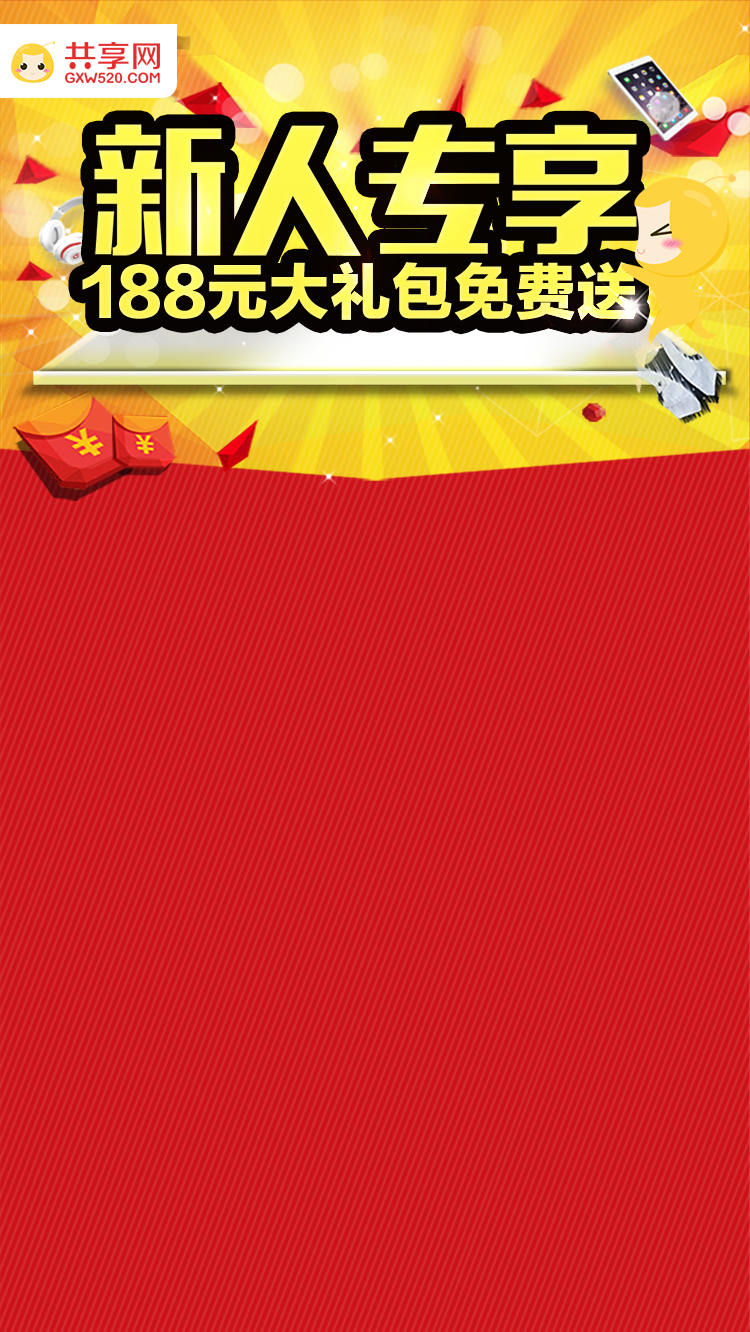
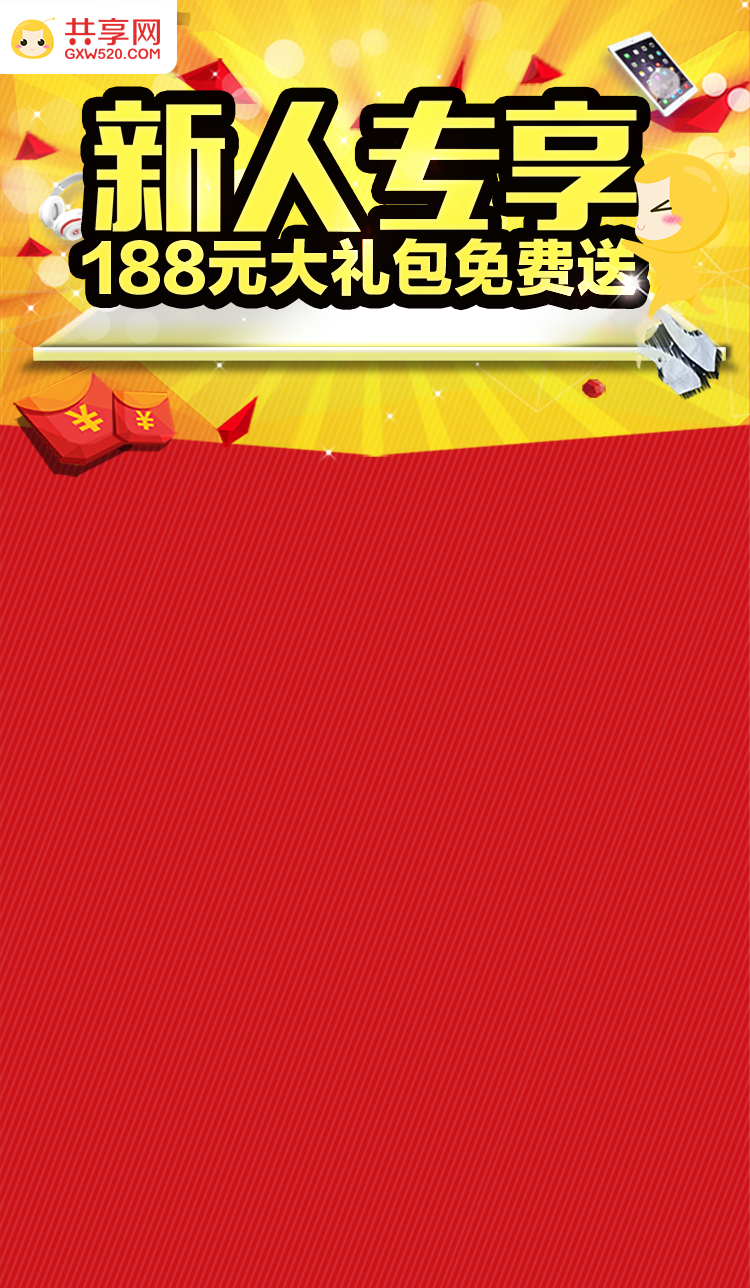
原生登陆，h5弹窗

Changed region(s): [[0.0, 0.0, 1.0, 0.4348], [0.0, 0.6522, 1.0, 0.8385]]

diff --git a/src/pages/my-prize/my-prize.vue b/src/pages/my-prize/my-prize.vue
@@ -27,7 +27,7 @@
       <p class="p-title">
         我的奖品
       </p>
-      <a class="sort-more" @touchstart="toLottery">去抽奖></a>
+      <a class="sort-more" id="sort_more2"  @touchstart="toLottery">去抽奖></a>
       <my-real-prize :prize="prize"></my-real-prize>
     </div>
     <my-prize-five :coupon="coupon,timeout" @a_app="warm_app"></my-prize-five>
@@ -38,6 +38,20 @@
       <p style="text-align: center">请下载共享网app！</p>
       <div class="btn_bot">
         <div class="btn_14" style="border: none" @touchstart="alert_app=false">确定</div>
+      </div>
+    </div>
+       <transition name="fade">
+    <div class="Cover_all"  v-if="alert_5">
+       <div class="Cover"></div>
+       <div class="img"  :style="{background: 'url(' +alert_520+ ') no-repeat',backgroundSize:'100% 100%'}">
+         <div class="close"  @touchstart="alert_5=false"></div>
+       </div>
+    </div>
+       </transition>
+    <div class="Cover_all" v-if="alert_h">
+      <div class="Cover" ></div>
+      <div class="img"  :style="{background: 'url(' +alert_hec+ ') no-repeat',backgroundSize:'100% 100%'}">
+        <div class="close" @touchstart="alert_h=false"></div>
       </div>
     </div>
   </div>
@@ -54,7 +68,13 @@
     name: 'myPrize',
     data(){
       return {
+        alert_5:false,
+        alert_5_1:false,
+        alert_h_1:false,
+        alert_h:false,
         isApp:false,
+        alert_520:require("../../assets/images/520_alert.png"),
+        alert_hec:require("../../assets/images/hec_alert.png"),
         is_confirm:false,
         showRules: false,
         id_num:"",
@@ -65,7 +85,7 @@
           "word1_num": "0",
           "word2_num": "0",
           "word3_num": "0",
-          "word4_num": "0"
+          "word4_num": "0",
         },
         shareUser: [
           {
@@ -79,6 +99,7 @@
       }
     },
     created(){
+
       let my_href=window.location.href
       let url_index=my_href.lastIndexOf("&")
               if(url_index>-1){
@@ -87,7 +108,8 @@
                 let id_num=user_id.substring(id_num_index+1)
                 this.id_num=id_num
               }
-      console.log(this.id_num)
+     /* console.log(this.id_num)*/
+     console.log( this.wordNum)
       let nowThis = this
       axios.get('http://192.168.1.25/gxw_mobile3/Shop/Loves/homeIndex?query={"user_id":'+this.id_num+'}')
      /* axios.get('/api/prizes')*/
@@ -95,7 +117,23 @@
 
              if(response.data.result==false){
              }else {
-               nowThis.wordNum = response.data.list.wordNum;
+               nowThis.wordNum.word1_num=response.data.list.wordNum.word1_num
+               nowThis.wordNum.word2_num=response.data.list.wordNum.word2_num
+               nowThis.wordNum.word3_num=response.data.list.wordNum.word3_num
+               nowThis.wordNum.word4_num=response.data.list.wordNum.word4_num
+                    if(response.data.list.wordNum.word1_new==1){
+                      nowThis.alert_5_1=true
+                    }else {
+                      nowThis.alert_5_1=false
+                    }
+               if(response.data.list.wordNum.word2_new==1){
+                 nowThis.alert_h_1=true
+               }else {
+                 nowThis.alert_h_1=false
+               }
+
+
+
              }
 
           if(response.data.result==false){
@@ -147,6 +185,8 @@
         })
     },
     mounted(){
+      this.alert_5=this.alert_5_1
+      this.alert_h=this.alert_h_1
       const nowThis = this
       const obj = nowThis.$el
       if (nowThis.$route.params.top)
@@ -192,7 +232,7 @@
         if(window.O2OHome){
           O2OHome.gotoTabIndex ('0')
         }else {
-        window.location.href="cn/active_homepage.html "//去抽奖要跳转的绝对路径
+      /*  window.location.href="cn/active_homepage.html "//去抽奖要跳转的绝对路径*/
         }
       }
     }

diff --git a/src/pages/new-people/new-people.vue b/src/pages/new-people/new-people.vue
@@ -12,7 +12,7 @@
     <button class="btn" @touchstart="write_tel_div=true">完成手机绑定，领取完整188元</button>
     <ul class="bot">
       <li>
-        <router-link :to="{name:'myPrize',params:{top:true},query:{isapp:'1',userid:id_num}}" >查看已领优惠券</router-link>
+        <router-link :to="{name:'myPrize',params:{top:true},query:{isapp:'1',userid:id_num}}">查看已领优惠券</router-link>
       </li>
       <li><a href="#" @touchstart="showRules=true">规则说明</a></li>
     </ul>
@@ -80,7 +80,18 @@
         acode: "获取验证码",
         write_tel_div: false,
         showRules: false,
-        bonus_list: [],
+        bonus_list: [
+          {type_money: "10", type_name: "全场通用劵"},
+          {type_money: "10", type_name: "满99可用"},
+          {type_money: "15", type_name: "满199可用"},
+          {type_money: "20", type_name: "满199可用"},
+          {type_money: "20", type_name: "满200可用"},
+          {type_money: "25", type_name: "满299可用"},
+          {type_money: "28", type_name: "满399可用"},
+          {type_money: "30", type_name: "满399可用"},
+          {type_money: "30", type_name: "满499可用"}
+
+        ],
         checke: true,
         warminfo: false,
         warmtext: "请填写11位的正确手机号"
@@ -89,10 +100,10 @@
     methods: {
       getCode(){
         if (this.checke == true) {
-          if ((/^1[3|4|5|7|8][0-9]{9}$/.test(this.tel))) {
+          if ((/^1[3|4|5|7|8|6][0-9]{9}$/.test(this.tel))) {
             this.checke = false;
             this.warminfo = false
-            axios.post('http://192.168.1.10/gxw_mobile3/user/sms/send?query={"mobile":' +'"'+ this.tel + '"' + "," + '"flag":"login"'+ "}").then(response => {
+            axios.post('http://192.168.1.10/gxw_mobile3/user/sms/send?query={"mobile":' + '"' + this.tel + '"' + "," + '"flag":"login"' + "}").then(response => {
               this.acode = 60;
               let a = this.acode;
               this.acode = "60秒再获取";
@@ -119,24 +130,22 @@
         console.log(this.tel)
         console.log(this.s_code)
         var nowThis = this
-        if ((/^1[3|4|5|7|8][0-9]{9}$/.test(this.tel))){
-          axios.post('http://192.168.1.10/gxw_mobile3/user/index/changephone?query={"user_id":' +'"'+ this.id_num+'"' + "," + '"tel":'  +'"'+ this.tel  +'"'+ "," +'"smscode":'  +'"'+ this.s_code +'"' + "}")
+        if ((/^1[3|4|5|7|8][0-9]{9}$/.test(this.tel))) {
+          axios.post('http://192.168.1.10/gxw_mobile3/user/index/changephone?query={"user_id":' + '"' + this.id_num + '"' + "," + '"tel":' + '"' + this.tel + '"' + "," + '"smscode":' + '"' + this.s_code + '"' + "}")
             .then(function (response) {
               if (response.data.result == true) {
                 this.write_tel_div = false
               } else {
                 nowThis.warminfo = true
-                nowThis.warmtext = "验证码错误!";
+                nowThis.warmtext = response.data.message
 
               }
             })
-        }else {
+        } else {
 
           nowThis.warminfo = true
           nowThis.warmtext = "请输入正确的手机号码!";
         }
-
-
 
 
       }
@@ -157,11 +166,11 @@
       }
 
       document.title = "新人专享页"
-      axios.get('http://192.168.1.10/gxw_mobile3/user/index/bonusList?query={"type":"2"}')
-      /* axios.get('/api/bonus_list')*/
-        .then(function (response) {
-          nowThis.bonus_list = response.data.bonus_list
-        })
+      /* axios.get('http://192.168.1.10/gxw_mobile3/user/index/bonusList?query={"type":"2"}')
+       /!* axios.get('/api/bonus_list')*!/
+       .then(function (response) {
+       nowThis.bonus_list = response.data.bonus_list
+       })*/
 
     }
   }

diff --git a/src/components/my-prize-coupon/my-prize-five.vue b/src/components/my-prize-coupon/my-prize-five.vue
@@ -4,7 +4,7 @@
       我的优惠券
     </p>
     <span class="sort-more" v-if="coupon.length>0" @touchstart="moreCoupon">更多></span>
-    <span class="sort-more" v-if="coupon.length<=0" @touchstart="getCoupon">去领取></span>
+    <span class="sort-more" v-if="coupon.length<=0" id="getCoupon" @touchstart="getCoupon">去领取></span>
     <div class="coupon " v-for="(item,index) in coupon" v-if="coupon.length>0" :style="{background: 'url(' + yhj_bg+ ') no-repeat',backgroundSize:'100% 100%'}">
       <div class="money">
         ¥<span>{{item.type_money|int_f}}</span>
@@ -14,7 +14,7 @@
           <p>满{{item.min_goods_amount|int_f}}可用</p>
         <p>有效期：{{item.use_start_date|time_f}}-{{item.use_end_date|time_f}} </p>
       </div>
-      <span class="use"  v-if="timeout[index]&&(item.order_id==0)" @touchstart="useCoupon">立即使用</span>
+      <span class="use  now_use"  v-if="timeout[index]&&(item.order_id==0)"  @touchstart="useCoupon">立即使用</span>
       <div class="coupon_icon" :class="[{gone:item.order_id>0},{already:((!timeout[index])&&(item.order_id==0))}]"></div>
     </div>
     <div class="coupon no_things" v-if="coupon.length<=0">
@@ -37,7 +37,7 @@
           if(window.O2OHome){
             O2OHome.gotoTabIndex ('0')
           }else {
-            window.location.href="cn/active_homepage.html"//获取优惠卷要跳转的绝对路径
+      /*      window.location.href="cn/active_homepage.html"//获取优惠卷要跳转的绝对路径*/
           }
         },
         moreCoupon(){
@@ -52,7 +52,7 @@
           if(window.O2OHome){
             O2OHome.gotoTabIndex ('0')
           }else {
-            window.location.href="cn/active_homepage.html"//去抽奖要跳转的绝对路径
+           /* window.location.href="cn/active_homepage.html"//去抽奖要跳转的绝对路径*/
           }
         }
       }

diff --git a/src/components/my-prize-sort/my-prize-three.vue b/src/components/my-prize-sort/my-prize-three.vue
@@ -3,13 +3,13 @@
    <p class="p-title">
      我的集赞排行
    </p>
-  <a class="sort-more" @touchstart="sortNum">查看排行榜</a>
+  <a class="sort-more" @touchstart="sortNum" id="sort-more">查看排行榜</a>
    <div class="sort-tb">
      <table>
-     <tr v-if="loveTitle.love_id>0">
+     <tr v-if="loveTitle.ranking>0">
        <td> {{loveTitle.ranking}}</td>
        <td><div class="head" style="background-size: 100% 100%" :style="loveTitle.user_img==null?{backgroundImage: 'url(' +sort_user_img + ')'}:{backgroundImage: 'url(' +loveTitle.user_img+ ')'}"></div></td>
-       <td>{{loveTitle.username}}</td>
+       <td class="sort_name_w">{{loveTitle.username}}</td>
        <td> <div class="sort-prize" style="background-size: 100% 100%" :style="loveTitle.imageurl=='null'?{backgroundImage: 'url(' +sort_prize_img + ')'}:{backgroundImage: 'url(' +loveTitle.imageurl + ')'}"></div></td>
        <td style="white-space: nowrap">收到赞: </td>
        <td>{{loveTitle.likes}}</td>
@@ -39,7 +39,7 @@
              if(window.O2OHome){
                O2OHome.gotoTabIndex ('2')
              }else {
-               window.location.href="cn/forlove_participate.html"//查看排行要跳转的绝对路径
+             /*  window.location.href="cn/forlove_participate.html"//查看排行要跳转的绝对路径*/
              }
            }
          }

diff --git a/src/pages/new-people/new-people.scss b/src/pages/new-people/new-people.scss
@@ -1,17 +1,21 @@
 .newPeople {
   position: relative;
-  min-height: 177.86vw;
+ /* min-height: 177.86vw;*/
+  min-height: 100vh;
   width: 100vw;
+  overflow: hidden;
+  padding-top: 35vh;
+  box-sizing: border-box;
   /*background: url('../../assets/images/newPeople@2x.png') no-repeat;
   background-size: 100% 100%;*/
 }
 .coupon{
-  position: absolute;
-  top:68.5vw;
+  position: relative;
+  overflow: hidden;
   left: 0;
   right: 0;
   margin:auto;
-   height: auto;
+  height: auto;
   li{
     float: left;
     margin-right: 4.1vw;
@@ -46,20 +50,17 @@
   color:#CC1218;
   background: #FFDCDC;
   border: none;
+  display: block;
   border-radius: 26.666vw;
-  position: absolute;
-  bottom: 7vh;
-  left: 0;
-  right: 0;
   margin: auto;
   font-size: 5rem;
 }
 .bot{
-  position: absolute;
+  margin-top: 3vh;
+  margin-bottom: 3vh;
   width: 100%;
   padding-left: 5vw;
   padding-right: 5vw;
-  bottom: 2vh;
   box-sizing: border-box;
   li{
     width: 50%;

diff --git a/src/pages/my-prize/my-prize.scss b/src/pages/my-prize/my-prize.scss
@@ -124,3 +124,47 @@ white-space: nowrap;
     border-right: 0.5px solid white;
   }
 }
+.Cover_all{
+  position: fixed;
+  width: 100vw;
+  height: 100vh;
+  top: 0;
+  z-index: 999;
+  .Cover{
+    height: 100vh;
+    width: 100vw;
+    background: black;
+    opacity: 0.7;
+  }
+  .img{
+    height: 80vw;
+    width: 80vw;
+    position: absolute;
+    top:0;
+    left: 0;
+    right: 0;
+    bottom: 0;
+    margin: auto;
+  }
+  .close{
+    width: 8vw;
+    height:8vw;
+    background: url("../../assets/images/close.png")no-repeat;
+    background-size: 100% 100%;
+    position: absolute;
+    top:8.9vw;
+    right:8.9vw;
+  }
+
+}
+.fade-enter-active, .fade-leave-active {
+  transform:scale(1);
+  transition: all 1.5s ;
+  opacity:1
+}
+.fade-enter, .fade-leave-active {
+  opacity: 0;
+  transform:scale(0.1);
+  transition: all 1.5s
+
+}

diff --git a/src/components/my-prize-one/my-prize-one.vue b/src/components/my-prize-one/my-prize-one.vue
@@ -10,7 +10,8 @@
 
       </slide>
     </carousel-3d>
-    <a class="j_card" @touchstart="getCard">去集卡></a>
+
+    <a class="j_card" id="j_card" @touchstart="getCard">去集卡></a>
   </div>
 
     <div class="my-price-two">
@@ -66,7 +67,7 @@ export default {
             if(window.O2OHome){
               O2OHome.gotoTabIndex ('1')
             }else {
-              window.location.href="cn/lovegift_card.html"//去集卡要跳转的绝对路径
+            /*  window.location.href="cn/lovegift_card.html"//去集卡要跳转的绝对路径*/
             }
     }
   }

diff --git a/src/components/my-prize-sort/my-prize-three.scss b/src/components/my-prize-sort/my-prize-three.scss
@@ -43,6 +43,10 @@ td{
   -ms-word-break: break-all;
   word-break: keep-all; word-wrap:break-word;
 }
+.sort_name_w{
+  width:120%;
+  word-break: break-all;
+}
 .un_do{
   display: inline-block;
   font-family: '.PingFangSC-Regular';
